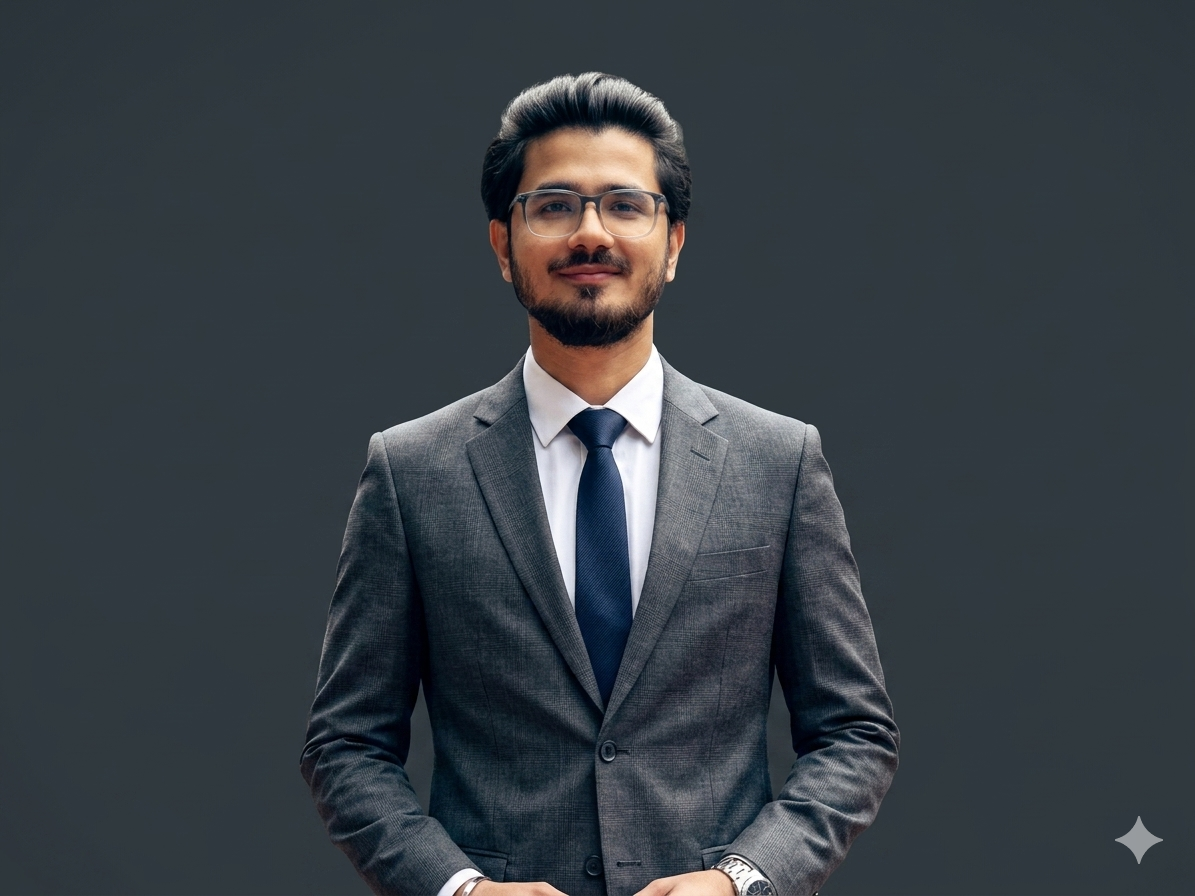
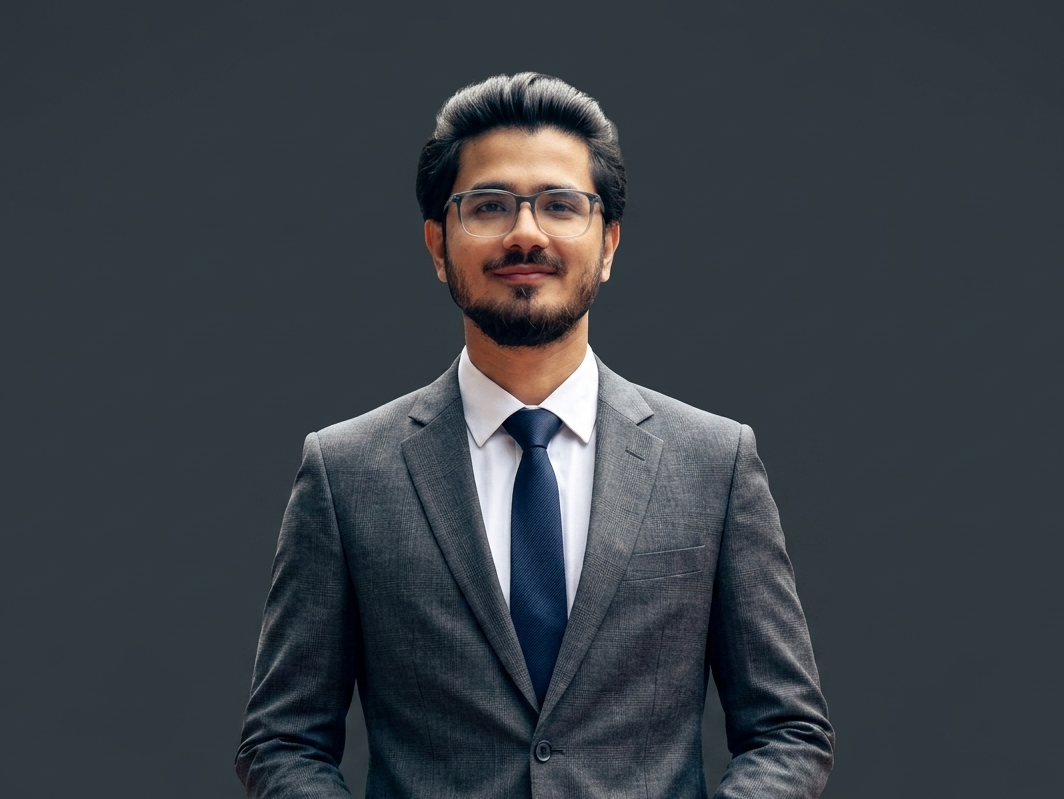
some other changes - adding light and dark theme

Changed region(s): [[0.2171, 0.0601, 0.8064, 1.0], [0.9305, 0.9011, 0.9925, 0.9612]]

diff --git a/index.html b/index.html
@@ -50,6 +50,79 @@
     transition: color .2s;
   }
   .nav-links a:hover { color: var(--accent); }
+  #theme-toggle { align-self: center; margin-left: 16px; }
+  .theme-toggle {
+    position: relative;
+    display: inline-flex;
+    align-items: center;
+    justify-content: center;
+    width: 64px;
+    height: 34px;
+    border-radius: 999px;
+    border: 1px solid var(--rule);
+    background: var(--paper);
+    color: var(--ink);
+    padding: 0;
+    cursor: pointer;
+    transition: background .2s, border-color .2s;
+    overflow: hidden;
+  }
+  .theme-toggle::before,
+  .theme-toggle::after {
+    position: absolute;
+    top: 50%;
+    transform: translateY(-50%);
+    font-size: 0.85rem;
+    pointer-events: none;
+  }
+  .theme-toggle::before {
+    content: '☀️';
+    left: 10px;
+  }
+  .theme-toggle::after {
+    content: '🌙';
+    right: 10px;
+  }
+  .theme-toggle::after,
+  .theme-toggle::before {
+    opacity: 0.75;
+  }
+  .theme-toggle .theme-toggle-knob {
+    position: absolute;
+    width: 28px;
+    height: 28px;
+    border-radius: 50%;
+    background: var(--paper);
+    border: 1px solid var(--rule);
+    box-shadow: 0 10px 20px rgba(15, 14, 12, 0.1);
+    left: 3px;
+    transition: transform .25s ease, background .2s, border-color .2s;
+  }
+  body.dark .theme-toggle {
+    background: #1d2a45;
+    border-color: #33415d;
+    color: var(--paper);
+  }
+  body.dark .theme-toggle .theme-toggle-knob {
+    transform: translateX(30px);
+    background: #11161f;
+    border-color: #283046;
+  }
+
+  body.dark {
+    --ink: #f5f5f1;
+    --paper: #11161f;
+    --accent: #ffc481;
+    --accent2: #75b4ff;
+    --muted: #a8afc3;
+    --rule: #283046;
+    --card: #161f2c;
+  }
+
+  #theme-toggle { align-self: center; margin-left: 16px; }
+  .hero-summary-column { background: rgba(255,255,255,0.92); }
+  body.dark .hero-summary-column { background: rgba(255,255,255,0.08); }
+  body.dark #hero { background: rgba(26, 34, 55, 0.96); }
 
   /* ── HERO ── */
   #hero {
@@ -244,10 +317,20 @@
   .exp-roles { display: flex; flex-direction: column; gap: 28px; }
   .exp-role {}
   .role-tag {
-    display: inline-block;
+    display: inline-flex; align-items: center; gap: 6px;
     font-family: var(--mono); font-size: .68rem; letter-spacing: .08em;
-    padding: 3px 10px; background: var(--ink); color: var(--paper);
+    padding: 5px 12px; background: var(--ink); color: var(--paper);
     margin-bottom: 10px;
+    border-radius: 999px;
+  }
+  .role-tag.role-ds2 {
+    background: #d9f0db;
+    color: #14522d;
+    font-weight: 500;
+  }
+  body.dark .role-tag.role-ds2 {
+    background: rgba(72, 117, 79, 0.28);
+    color: #d8f7d8;
   }
   .role-tag.analyst { background: var(--accent2); }
   .role-tag.intern { background: var(--muted); }
@@ -283,6 +366,13 @@
     transition: all .2s;
   }
   .skill-tag:hover { border-color: var(--accent); color: var(--paper); }
+  body.dark #skills { background: #12182a; color: var(--paper); }
+  body.dark #skills .section-title { color: var(--ink); }
+  body.dark #skills .section-rule { background: #33415d; }
+  body.dark .skills-grid { background: #1e293e; }
+  body.dark .skill-group { background: #161f2c; }
+  body.dark .skill-tag { border-color: #384c76; color: #c8d4f1; }
+  body.dark .skill-tag:hover { color: var(--paper); }
 
   /* ── EDUCATION ── */
   .edu-grid { display: grid; grid-template-columns: 1fr 1fr; gap: 24px; }
@@ -386,6 +476,9 @@
     <a href="#education">Education</a>
     <a href="#certifications">Certifications</a>
   </div>
+  <button id="theme-toggle" type="button" class="theme-toggle" aria-label="Toggle theme">
+    <span class="theme-toggle-knob"></span>
+  </button>
 </nav>
 
 <!-- HERO -->
@@ -436,7 +529,7 @@
     </div>
     <div class="exp-roles">
       <div class="exp-role">
-        <div class="role-tag">Data Scientist II</div>
+        <div class="role-tag role-ds2">Data Scientist II</div>
         <div class="role-client">↳ Pharma Sector</div>
         <ul class="bullets">
           <li>Redesigned HCP targeting methodology using ML-based segmentation across <span class="highlight">35+ brand-indication combinations</span>, enabling precision engagement strategies and improving campaign ROI.</li>
@@ -588,28 +681,6 @@
       <div class="cert-icon aws">AWS</div>
       <div>
         <div class="cert-name">AWS Data Engineer Associate</div>
-
-<!-- Contact helper: try opening Gmail compose with recipient prefilled; fallback to mailto -->
-<script>
-  document.addEventListener('click', function (e) {
-    var a = e.target.closest && e.target.closest('a.open-gmail');
-    if (!a) return;
-    e.preventDefault();
-    var href = a.getAttribute('href') || '';
-    var mailto = href && href.indexOf('mailto:') === 0 ? href : 'mailto:' + (a.datasetEmail || '');
-    var toMatch = mailto.match(/^mailto:([^?]+)/i);
-    var to = (toMatch && toMatch[1]) || a.datasetEmail || '';
-    var subject = a.dataset.subject || '';
-    var body = a.dataset.body || '';
-    var gmailUrl = 'https://mail.google.com/mail/?view=cm&fs=1&to=' + encodeURIComponent(to);
-    if (subject) gmailUrl += '&su=' + encodeURIComponent(subject);
-    if (body) gmailUrl += '&body=' + encodeURIComponent(body);
-    var newWin = window.open(gmailUrl, '_blank');
-    if (!newWin) {
-      window.location.href = mailto;
-    }
-  });
-</script>
         <div class="cert-issuer">Amazon Web Services &nbsp;·&nbsp; DEA-C01</div>
       </div>
       <a class="cert-link" href="https://www.credly.com/badges/a3cfa3a7-e6cb-4247-abfd-ee55998e0909/linked_in_profile" target="_blank">View ↗</a>
@@ -630,6 +701,52 @@
   <div class="footer-copy">© 2026 Himanshu Banerjee &nbsp;·&nbsp; Bengaluru, India</div>
   <a href="#hero" class="footer-back">↑ Back to top</a>
 </footer>
+
+<script>
+  (function () {
+    var storedTheme = localStorage.getItem('theme');
+    var prefersDark = window.matchMedia && window.matchMedia('(prefers-color-scheme: dark)').matches;
+    var darkMode = storedTheme ? storedTheme === 'dark' : prefersDark;
+    if (darkMode) {
+      document.body.classList.add('dark');
+    }
+
+    var toggle = document.getElementById('theme-toggle');
+    function updateToggleLabel() {
+      if (!toggle) return;
+      var isDark = document.body.classList.contains('dark');
+      toggle.setAttribute('aria-label', isDark ? 'Switch to light theme' : 'Switch to dark theme');
+    }
+    updateToggleLabel();
+
+    if (toggle) {
+      toggle.addEventListener('click', function () {
+        var isDark = document.body.classList.toggle('dark');
+        localStorage.setItem('theme', isDark ? 'dark' : 'light');
+        updateToggleLabel();
+      });
+    }
+
+    document.addEventListener('click', function (e) {
+      var a = e.target.closest && e.target.closest('a.open-gmail');
+      if (!a) return;
+      e.preventDefault();
+      var href = a.getAttribute('href') || '';
+      var mailto = href && href.indexOf('mailto:') === 0 ? href : 'mailto:' + (a.datasetEmail || '');
+      var toMatch = mailto.match(/^mailto:([^?]+)/i);
+      var to = (toMatch && toMatch[1]) || a.datasetEmail || '';
+      var subject = a.dataset.subject || '';
+      var body = a.dataset.body || '';
+      var gmailUrl = 'https://mail.google.com/mail/?view=cm&fs=1&to=' + encodeURIComponent(to);
+      if (subject) gmailUrl += '&su=' + encodeURIComponent(subject);
+      if (body) gmailUrl += '&body=' + encodeURIComponent(body);
+      var newWin = window.open(gmailUrl, '_blank');
+      if (!newWin) {
+        window.location.href = mailto;
+      }
+    });
+  })();
+</script>
 
 </body>
 </html>